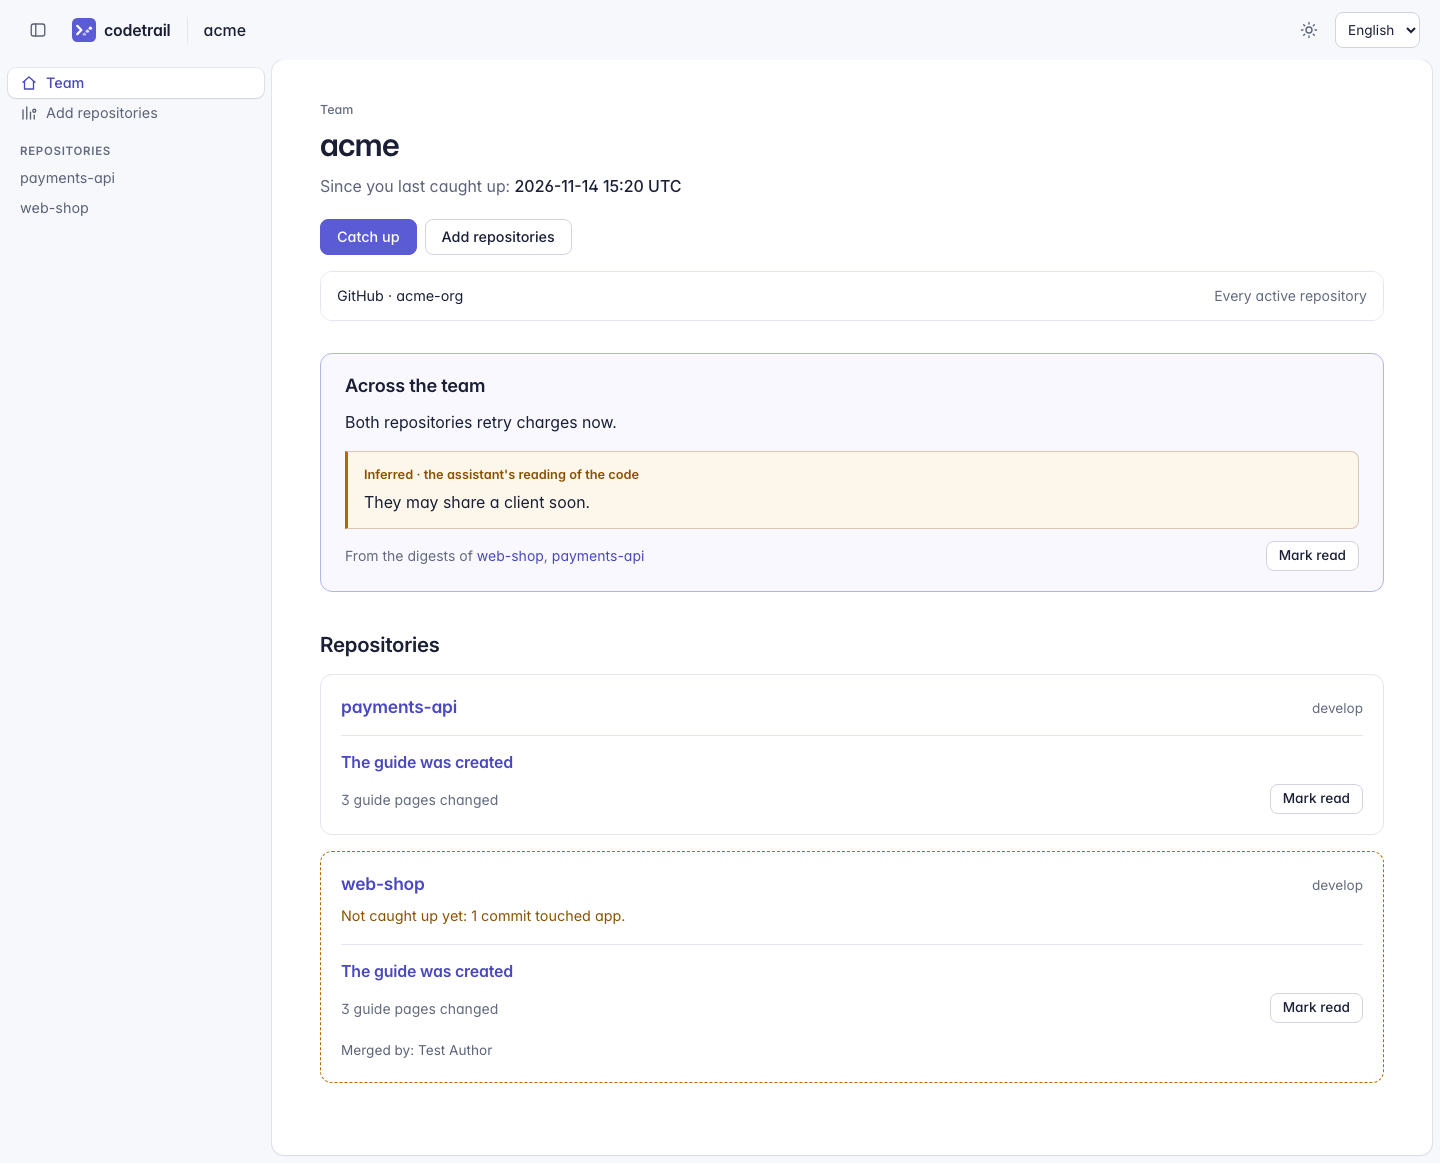
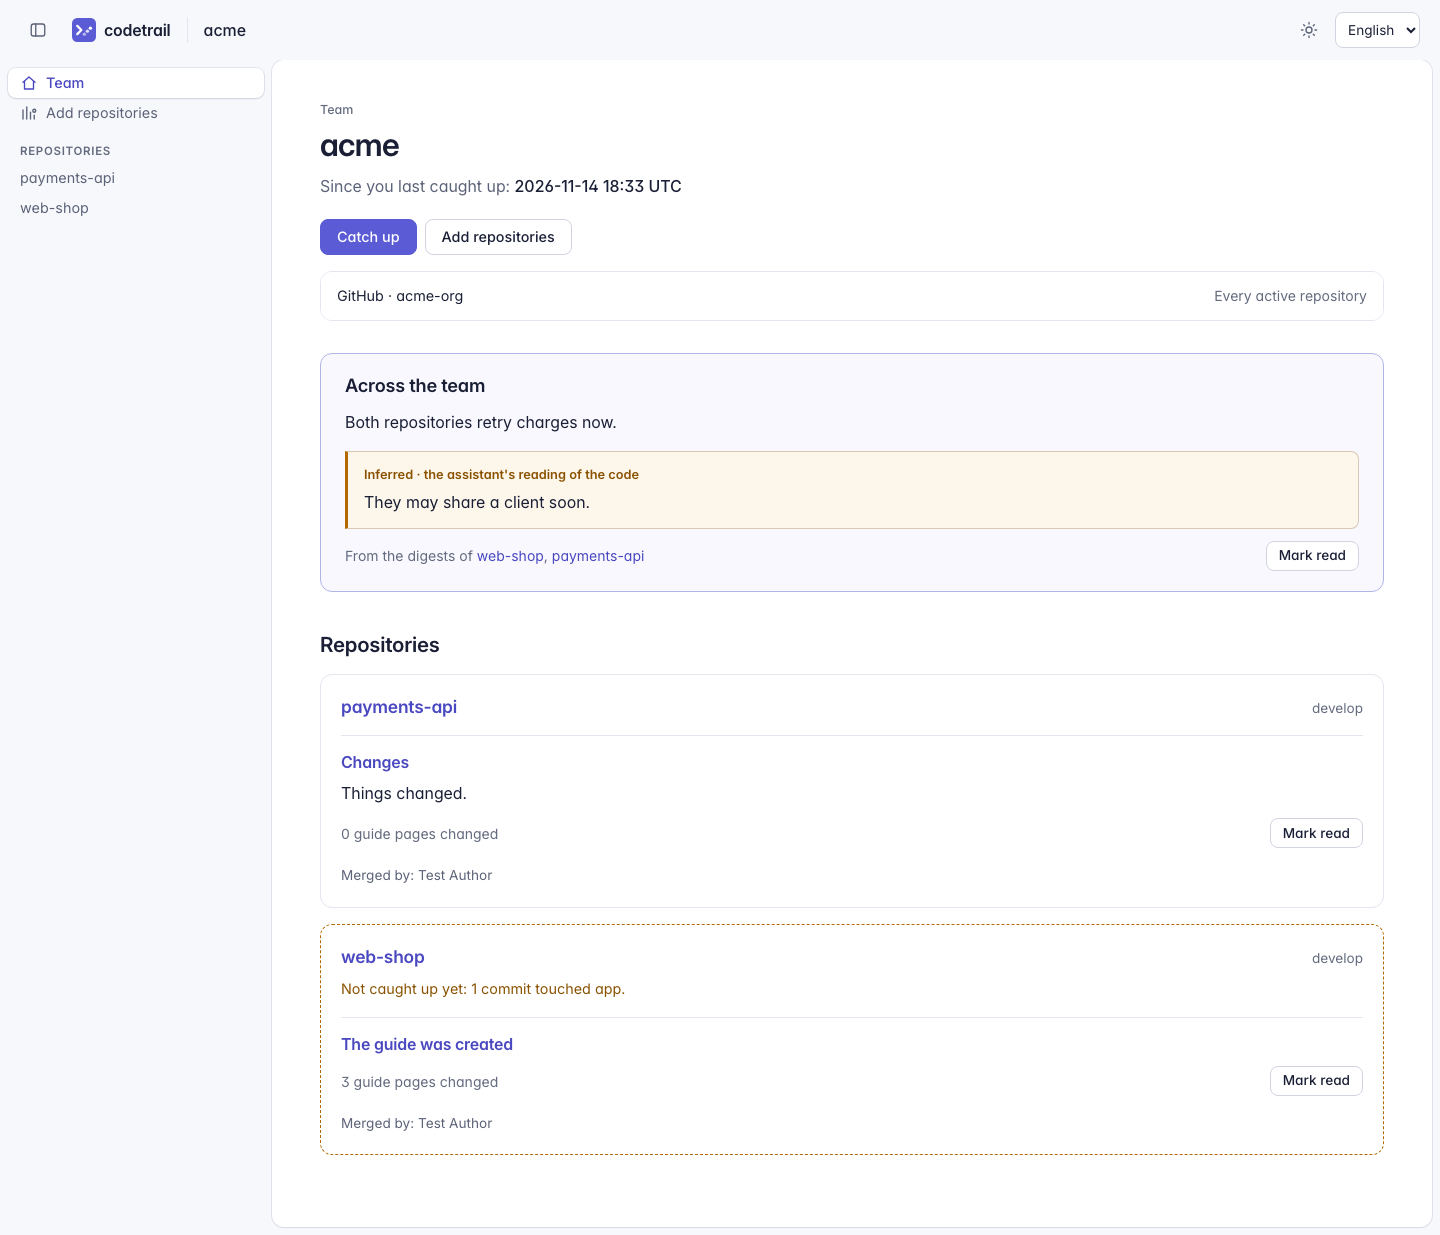
test(team): catch payments-api up with a paid update in the team page fixture
What: the browser tests' two_guides fixture catches payments-api up with a paid update
(the fake assistant), after marking its first guide's digest read, instead of a facts-only
refresh. The team page's screenshots teams-05, -06 and -07, regenerated by
tests/browser/test_guide_screenshots.py, show its card with the catch-up's digest
("Changes", 0 guide pages changed, Merged by), and the teams guide describes that card.
The images carry no metadata chunks.

Why: the fixture stood for "caught up" with a facts-only refresh, which the earlier
commits on this branch no longer count as caught up (ADR 0021), so test_team_page_cards
and the screenshots saw a dashed "not caught up" card.

Alternatives considered: writing a digest by hand ending at the head, which tests less of
what a reader does.

Risks: none; tests and documentation only.

Agent and model: Claude Code, Claude Opus 5.5

diff --git a/tests/browser/test_team_page.py b/tests/browser/test_team_page.py
@@ -11,8 +11,10 @@ from pathlib import Path
 import pytest
 from playwright.sync_api import Page, expect
 
-from codetrail.config import RemoteSettings, TeamSource, write_remote_target
+from codetrail.config import Paths, RemoteSettings, TeamSource, write_remote_target
 from codetrail.database import connect
+from codetrail.guide import GuideRepository
+from codetrail.learn import LearningState
 from codetrail.team.settings import save_selection
 from codetrail.team.state import Overviews, TeamState, team_database
 from tests.browser.conftest import ready
@@ -40,6 +42,15 @@ def write_overview(site: TeamSite) -> None:
         connection.close()
 
 
+def read_digests(paths: Paths, target: str) -> None:
+    connection = connect(paths.target_data(target) / "codetrail.db")
+    try:
+        for digest in GuideRepository(paths.target_data(target) / "guide").pages("digest"):
+            LearningState(connection).mark_digest_read(digest.id)
+    finally:
+        connection.close()
+
+
 @pytest.fixture
 def two_guides(tmp_path: Path, monkeypatch: pytest.MonkeyPatch) -> Iterator[TeamSite]:
     with serving_team(tmp_path, monkeypatch) as site:
@@ -52,7 +63,8 @@ def two_guides(tmp_path: Path, monkeypatch: pytest.MonkeyPatch) -> Iterator[Team
             first_guide(site.paths, target)
         add_commit(site.checkout, {"app/charges.py": "RETRIES = 5\n"}, "fix(app): retry once more")
         publish(site.checkout, tmp_path / "served")
-        site.refresh("acme-payments-api")
+        read_digests(site.paths, "acme-payments-api")  # the reader read its first guide's digest
+        first_guide(site.paths, "acme-payments-api")  # caught up: a paid update took the commit in, with a digest
         write_overview(site)
         yield site
 

diff --git a/docs/guides/teams.md b/docs/guides/teams.md
@@ -85,7 +85,7 @@ If git can't fetch a repository, the refresh fails and the message names the com
    - **Repositories** has one card for each repository with something new, the busiest first.
    - **Nothing new:** is a line listing the quiet repositories. Below it, **Archived, or no longer in their source** lists the repositories that are no longer refreshed.
 3. Read a card.
-   ![A repository card for payments-api: its name, the branch develop, the digest titled The guide was created, 3 guide pages changed, and a Mark read button.](../images/guides/teams-06-a-card.png)
+   ![A repository card for payments-api, caught up: its name, the branch develop, the digest titled Changes with its text Things changed., 0 guide pages changed, a Mark read button, and Merged by: Test Author.](../images/guides/teams-06-a-card.png)
    A card shows the repository's name and branch, how many merges landed and which areas they touched (from the free signal), the unread digest with its highlights (each marked documented or inferred), **Merged by** with the authors' names as git records them, and how many guide pages changed. Codetrail never counts or ranks people.
 4. Press **Mark read** on a card when you have read it.
    ![The team page after Mark read on the payments-api card. Only the web-shop card remains under Repositories; the overview is still shown.](../images/guides/teams-07-the-card-read.png)
